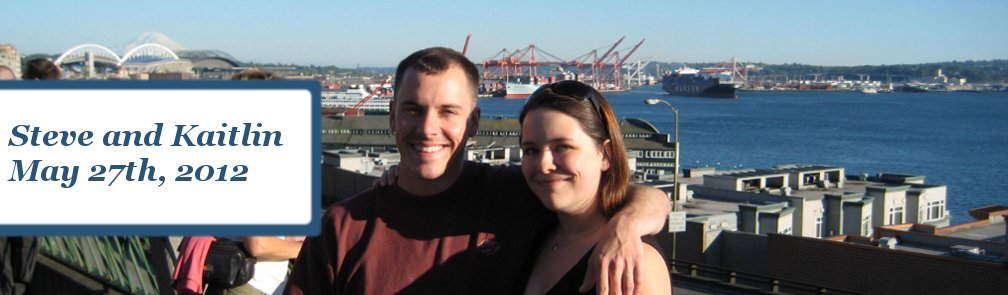
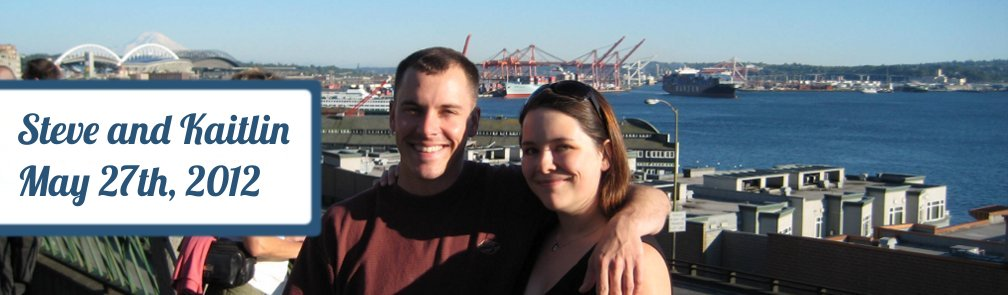
style/font updates

Changed region(s): [[0.0, 0.3661, 0.3075, 0.7017]]

diff --git a/static/styles/main.css b/static/styles/main.css
@@ -1,12 +1,16 @@
 
-body, div, img { margin: 0; padding: 0; }
+body, div, img { margin: 0; padding: 0; font-family: 'Lobster', cursive; }
 body { background-color: #89B6F9; }
 
 div#content-container { width: 1024px; margin: 0 auto; color: white; font-family: georgia; font-size: 12pt; }
-
+div#content-container p { margin: 20px; }
 div#columns { width: 100%; }
-div#content-left { float:left; width: 674px; background-color:#71A417; border: 8px white solid; }
+div#content-left { float:left; width: 674px; background-color:#71A417; border: 8px white solid; font-family:'Prociono', serif; line-height:22px; }
 div#content-right { float:left; width: 326px;  vertical-align:top;  background-color: #71A417; border: 8px white solid; margin-left: -8px; }
 
 div#header { width: 1008px; border: 8px white solid; margin-bottom: -8px; } 
 div#header img { display:block; }
+ul.nav { list-style-type: none;  }
+ul.nav li { list-style-type:none; font-size: 1.4em; margin: 10px;}
+ul.nav li a {text-decoration: none; color:white; }
+ul.nav li a:hover { text-decoration: underline; }

diff --git a/templates/index.html b/templates/index.html
@@ -1,6 +1,13 @@
 {% extends "base.html" %}
 
 {% block content %}
-<p>test</p>
+<p>
+Steve and Kaitlin are getting married! Please join us on the beautiful island of Vieques in Puerto Rico for Memorial Day weekend. There will be events all weekend, so check out the R.S.V.P page.
+</p>
+<ul>
+<li>Who: Stephen James Devine and Kaitlin Blythe Lee
+<li>Where: Sun Bay, Vieques, Puerto Rico</li>
+<li>When: May 27th, 2012</li>
+</ul>
 {% endblock content %}
 

diff --git a/templates/base.html b/templates/base.html
@@ -2,6 +2,8 @@
 <html>
 <head>
 <title>Kaitlin and Steve are Getting Married!</title>
+<link href='http://fonts.googleapis.com/css?family=Lobster' rel='stylesheet' type='text/css'>
+<link href='http://fonts.googleapis.com/css?family=Prociono' rel='stylesheet' type='text/css'>
 <link rel="stylesheet" href="/static/styles/main.css" type="text/css" media=screen />
 </head>
 <body>

diff --git a/templates/navigation.html b/templates/navigation.html
@@ -1,5 +1,5 @@
 <ul class="nav">
-<li><a href="#">Where</a></li>
+<li><a href="#">About Vieques, P.R.</a></li>
 <li><a href="#">R.S.V.P</a></li>
 <li><a href="#">Request a Reception Song</a></li>
 </ul>
